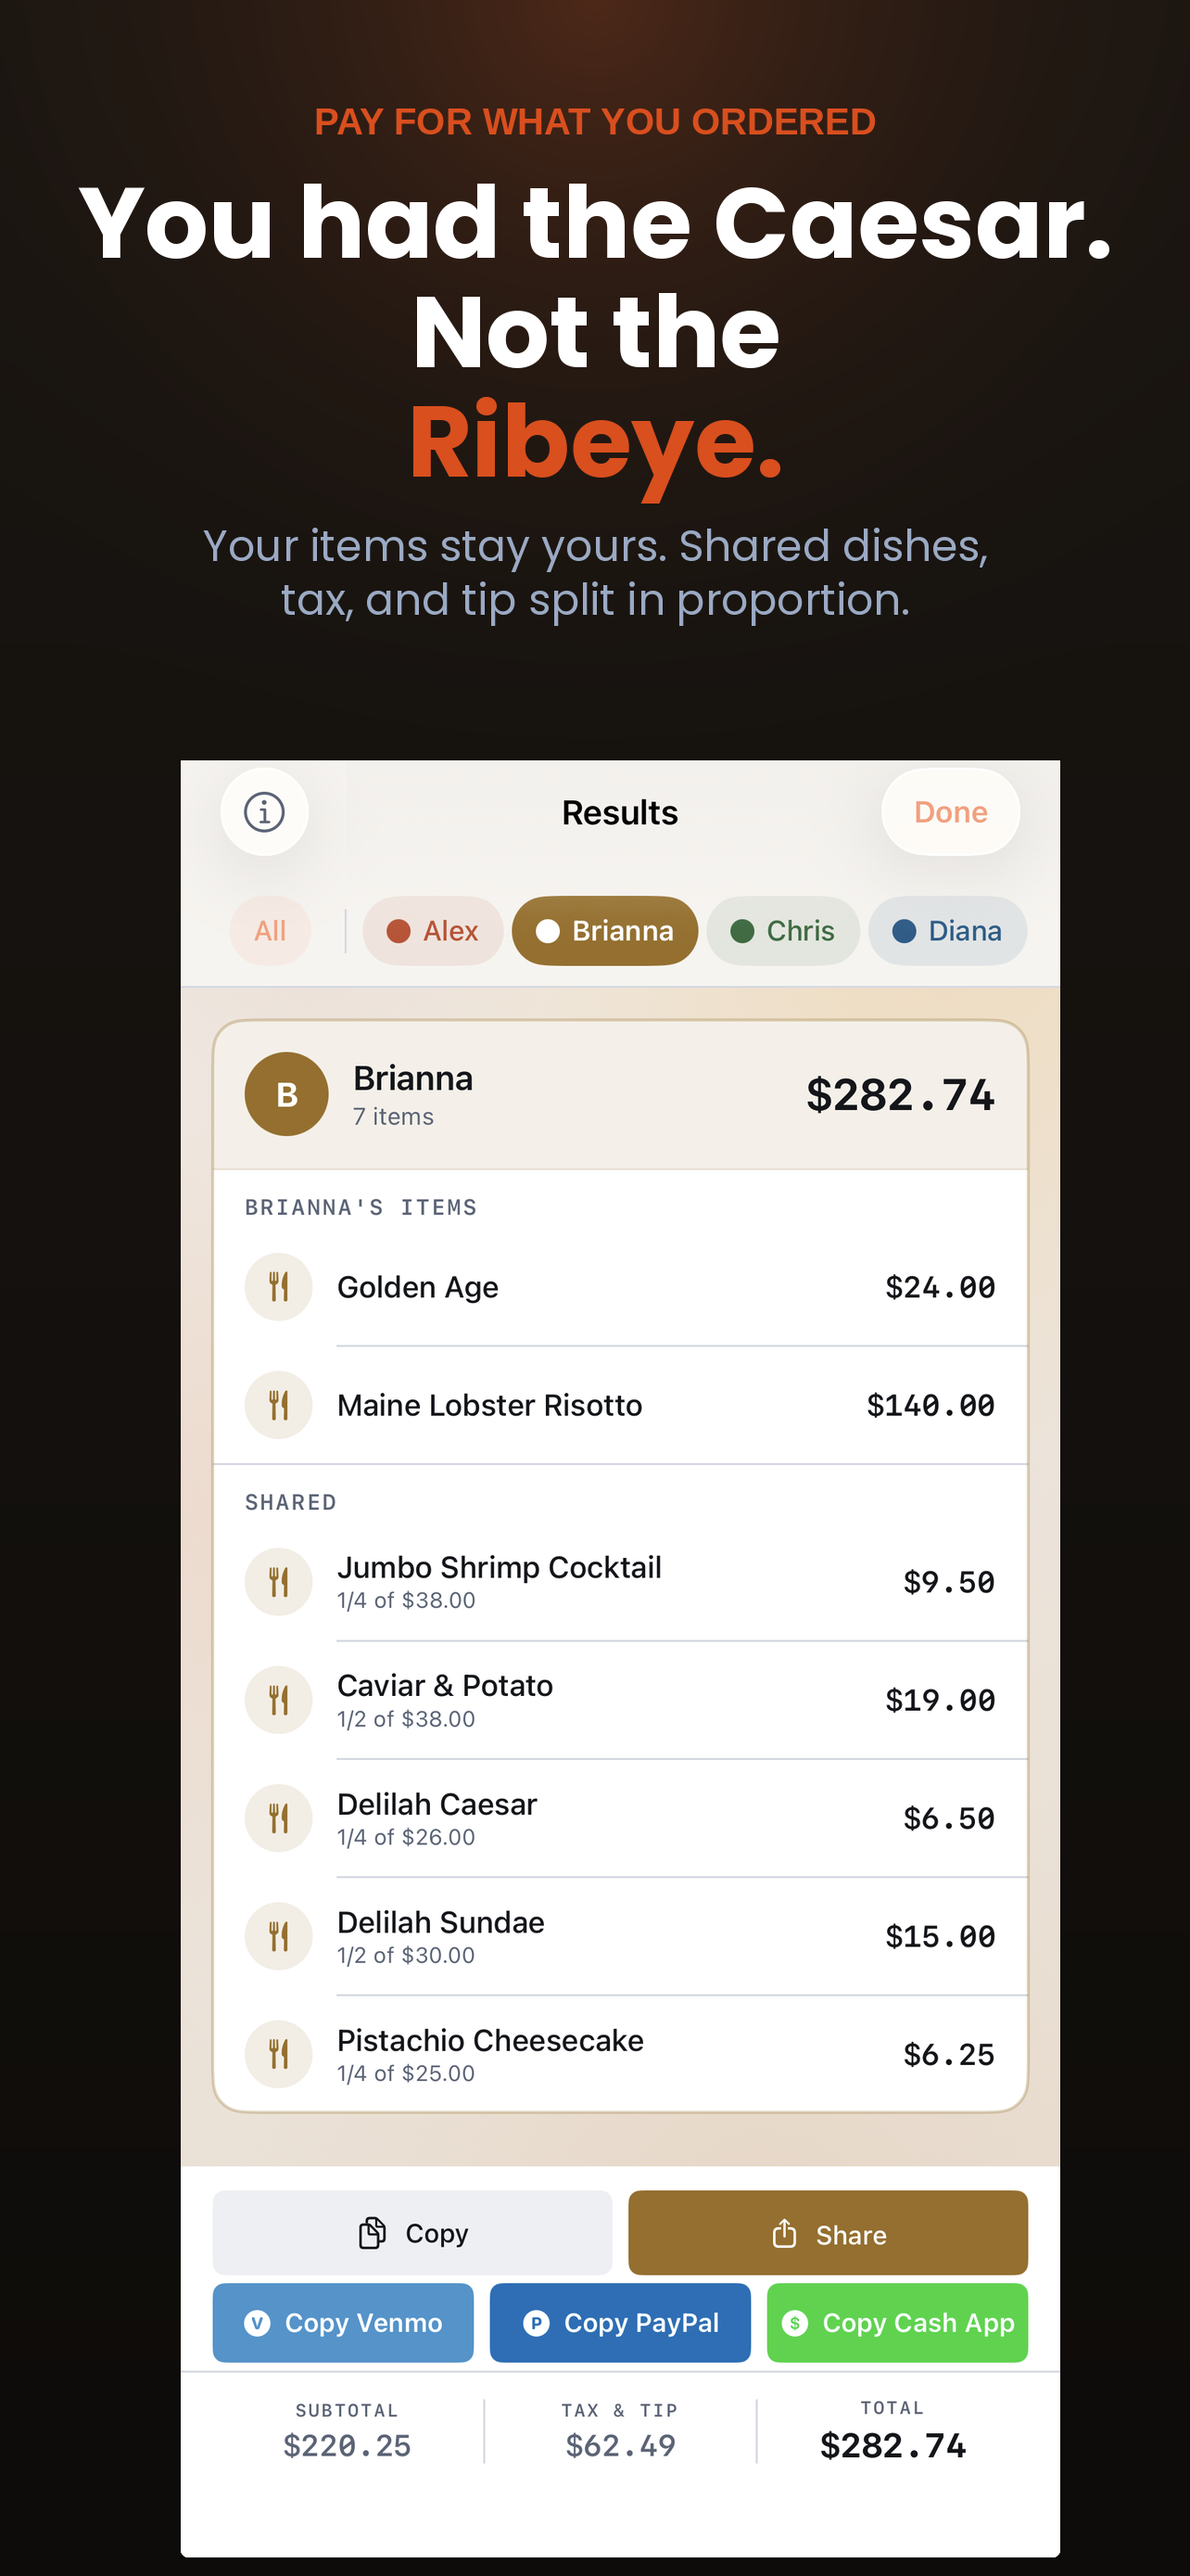
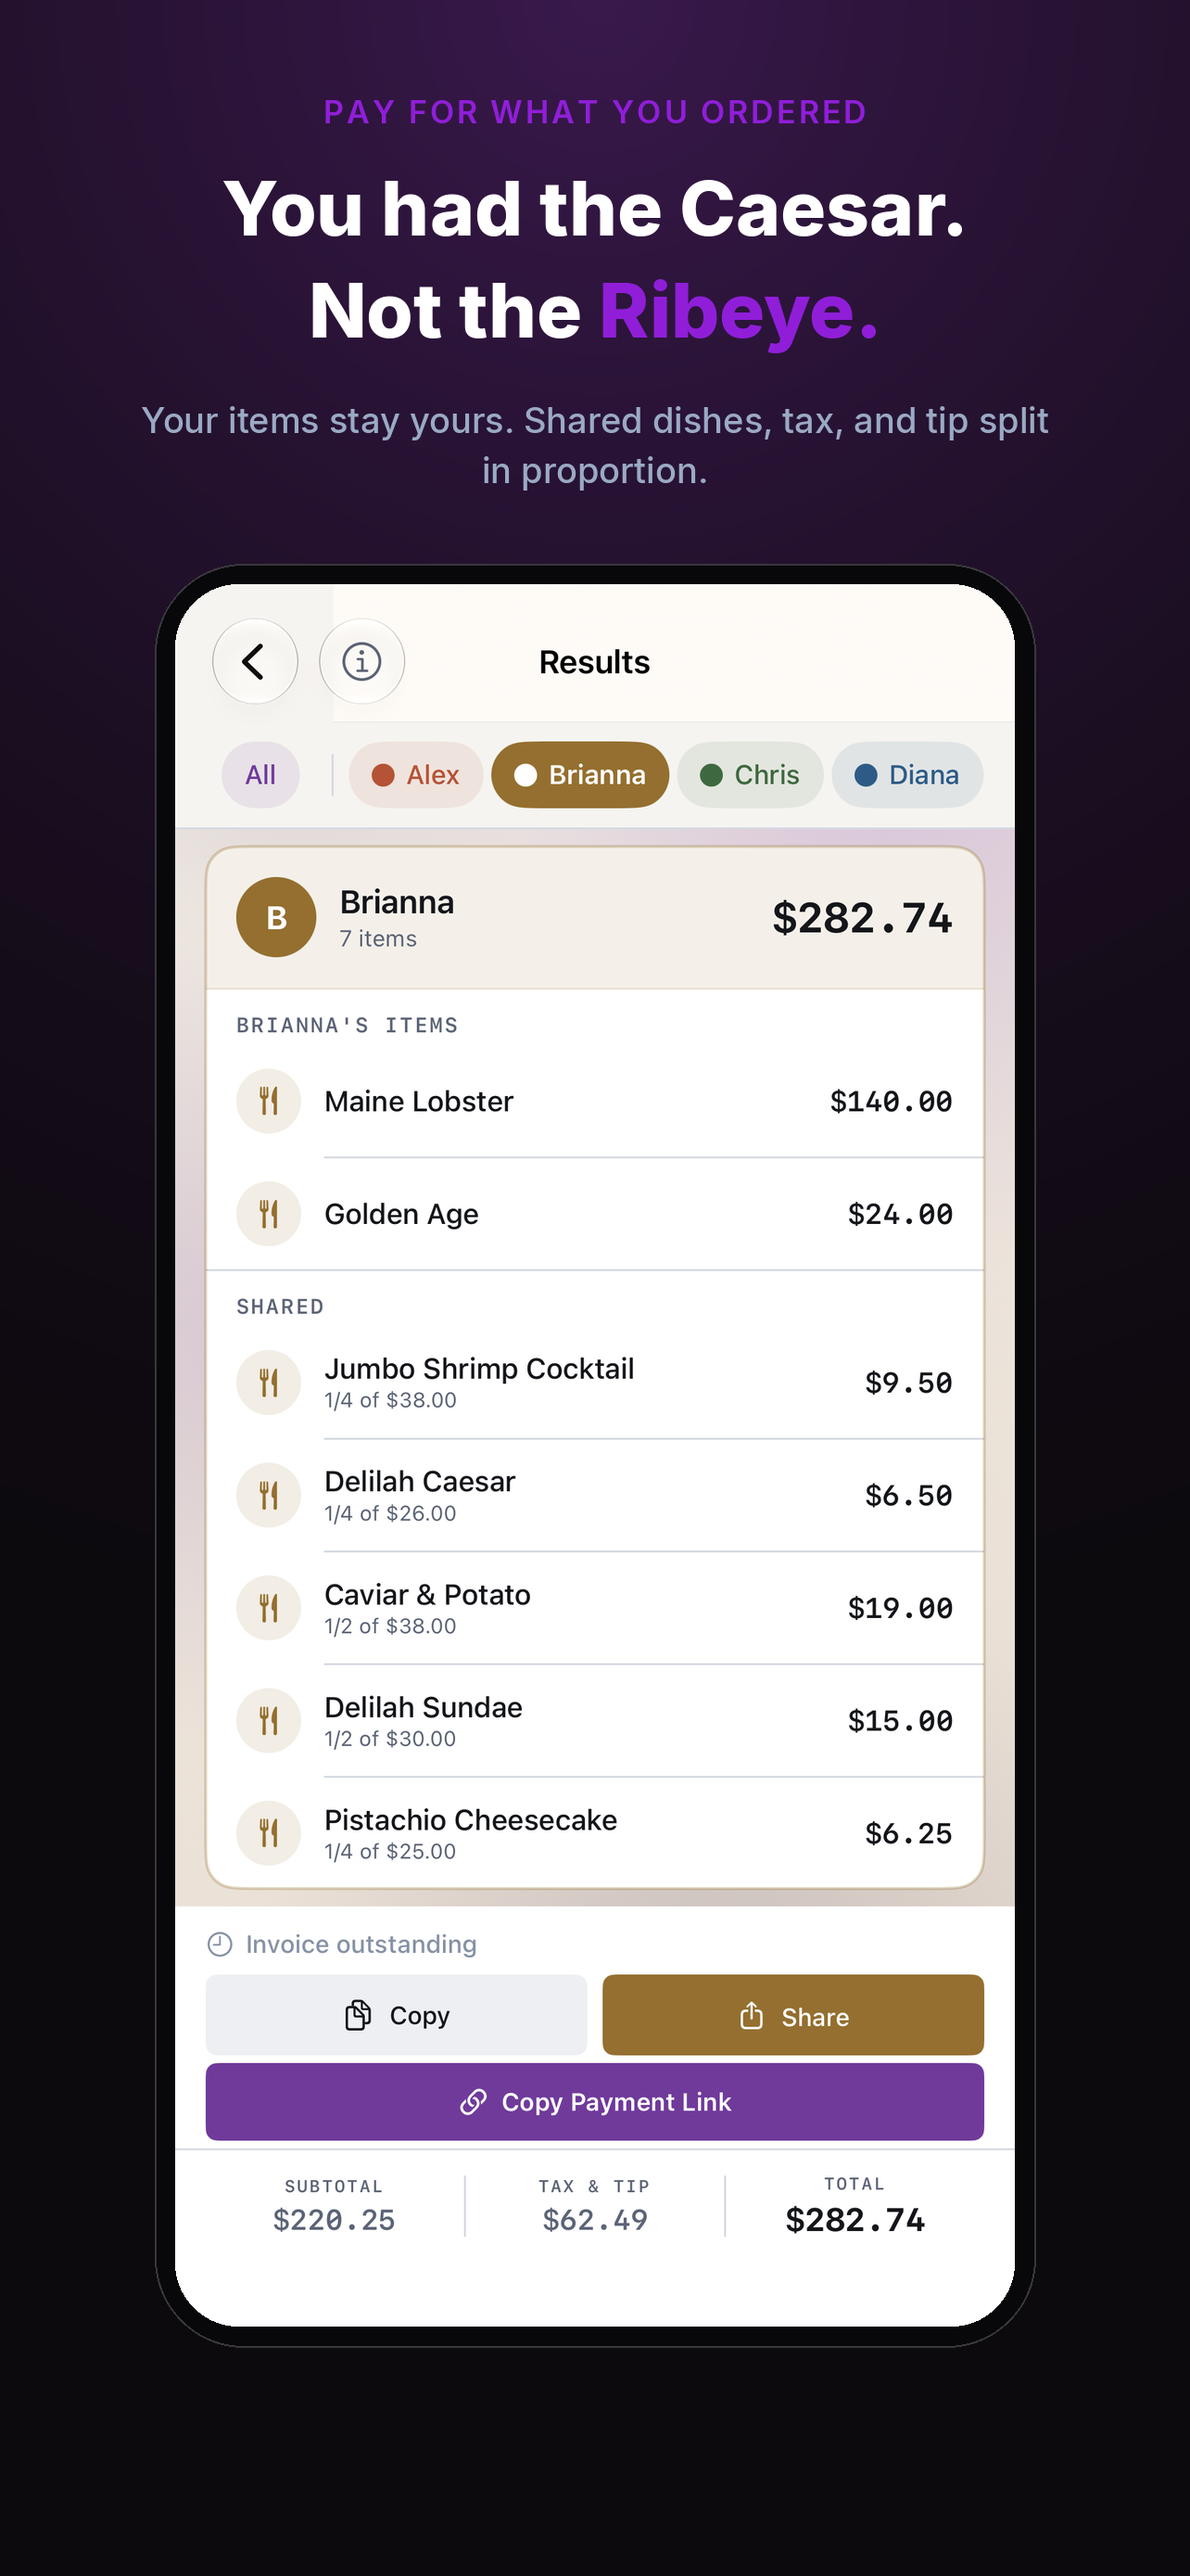
TabCut 2.0 release website update

diff --git a/tabcut/index.html b/tabcut/index.html
@@ -57,8 +57,8 @@
         * { margin: 0; padding: 0; box-sizing: border-box; }
 
         :root {
-            --accent: #FF6B35;
-            --accent-dark: #e85a24;
+            --accent: #7837A1;
+            --accent-dark: #4B1F73;
             --black: #1a1a1a;
             --gray-1: #f5f5f7;
             --gray-2: #e8e8e8;
@@ -584,6 +584,10 @@
             <span class="strip-icon">🔒</span>
             <span class="strip-text">No account or Wi-Fi needed</span>
         </div>
+        <div class="strip-item">
+            <span class="strip-icon">🌍</span>
+            <span class="strip-text">Multi-currency ready</span>
+        </div>
     </div>
 </div>
 
@@ -616,17 +620,17 @@
         <div class="step">
             <div class="step-number">1</div>
             <div class="step-title">Add the items</div>
-            <p class="step-desc">Point your camera at the receipt and TabCut reads every line item in seconds — name, price, quantity. All processing happens on your iPhone; nothing is uploaded. Prefer to type? Manual entry works too.</p>
+            <p class="step-desc">Point your camera at the receipt and TabCut reads every line item in seconds — name, price, quantity. All processing happens on your iPhone; nothing is uploaded. Prefer to type or talk? Manual entry and Voice Mode both work too.</p>
         </div>
         <div class="step">
             <div class="step-number">2</div>
             <div class="step-title">Add your group</div>
-            <p class="step-desc">Type in names or pull directly from your Contacts. Everyone at the table gets their own column from the start.</p>
+            <p class="step-desc">Type in names, pull from your Contacts, or add a saved Dining Group in one tap. Everyone at the table gets their own column from the start.</p>
         </div>
         <div class="step">
             <div class="step-number">3</div>
             <div class="step-title">Assign &amp; finalize</div>
-            <p class="step-desc">Tap to assign dishes to whoever ordered them. Split shared items across multiple people. Add tax, tip, and the venue name — then confirm and you're done.</p>
+            <p class="step-desc">Tap to assign dishes to whoever ordered them, or fill in a saved Meal Template instead of starting from scratch. Split shared items across multiple people, add tax, tip, the venue name, and currency if you're abroad — then confirm and you're done.</p>
         </div>
         <div class="step">
             <div class="step-number">4</div>
@@ -653,16 +657,16 @@
             <div class="ss-label">2 · Assign</div>
         </div>
         <div class="screenshot-card" onclick="openLightbox('screenshots/03_tabcut.png')">
-            <img src="screenshots/03_tabcut.png" alt="Review the split" class="ss-image">
-            <div class="ss-label">3 · Summary</div>
+            <img src="screenshots/03_tabcut.png" alt="Save a dining group" class="ss-image">
+            <div class="ss-label">3 · Dining Groups</div>
         </div>
         <div class="screenshot-card" onclick="openLightbox('screenshots/04_tabcut.png')">
             <img src="screenshots/04_tabcut.png" alt="See everyone's total" class="ss-image">
             <div class="ss-label">4 · Results</div>
         </div>
         <div class="screenshot-card" onclick="openLightbox('screenshots/05_tabcut.png')">
-            <img src="screenshots/05_tabcut.png" alt="Send individual invoices" class="ss-image">
-            <div class="ss-label">5 · Invoice</div>
+            <img src="screenshots/05_tabcut.png" alt="Fill in a meal template" class="ss-image">
+            <div class="ss-label">5 · Meal Templates</div>
         </div>
         <div class="screenshot-card" onclick="openLightbox('screenshots/06_tabcut.png')">
             <img src="screenshots/06_tabcut.png" alt="Group summary" class="ss-image">
@@ -675,6 +679,14 @@
         <div class="screenshot-card" onclick="openLightbox('screenshots/08_tabcut.png')">
             <img src="screenshots/08_tabcut.png" alt="Full split history" class="ss-image">
             <div class="ss-label">8 · History</div>
+        </div>
+        <div class="screenshot-card" onclick="openLightbox('screenshots/09_tabcut.png')">
+            <img src="screenshots/09_tabcut.png" alt="Add people and items by voice" class="ss-image">
+            <div class="ss-label">9 · Voice Mode</div>
+        </div>
+        <div class="screenshot-card" onclick="openLightbox('screenshots/10_tabcut.png')">
+            <img src="screenshots/10_tabcut.png" alt="Unlock TabCut Pro" class="ss-image">
+            <div class="ss-label">10 · Unlock Pro</div>
         </div>
     </div>
 </div>
@@ -691,9 +703,19 @@
             <p class="feature-desc">Type names directly or import from your Contacts. Each person gets their own running total as items are assigned — no confusion at the end.</p>
         </div>
         <div class="feature-card">
+            <div class="feature-icon">⭐</div>
+            <div class="feature-title">Dining Groups</div>
+            <p class="feature-desc">Save the people you split with most — roommates, the weekly dinner crew, a travel group — and add everyone back with a single tap next time.</p>
+        </div>
+        <div class="feature-card">
             <div class="feature-icon">📷</div>
             <div class="feature-title">On-device receipt scanning</div>
             <p class="feature-desc">Camera-powered scanning reads your receipt instantly. Works on crumpled paper, dim lighting, and long itemized bills. Prefer to type? Add items manually with the built-in keyboard entry.</p>
+        </div>
+        <div class="feature-card">
+            <div class="feature-icon">🎙</div>
+            <div class="feature-title">Voice Mode</div>
+            <p class="feature-desc">Add people and items completely hands-free — just say what you need and TabCut builds the split as you talk.</p>
         </div>
         <div class="feature-card">
             <div class="feature-icon">✂</div>
@@ -706,6 +728,11 @@
             <p class="feature-desc">Shared appetizers and bottles split evenly across however many people ordered them — one tap per person.</p>
         </div>
         <div class="feature-card">
+            <div class="feature-icon">📝</div>
+            <div class="feature-title">Meal Templates</div>
+            <p class="feature-desc">Order the same thing every time? Save a meal once as a template, then fill in a new split with a single tap.</p>
+        </div>
+        <div class="feature-card">
             <div class="feature-icon">💸</div>
             <div class="feature-title">Share &amp; collect payment</div>
             <p class="feature-desc">Send each person's total by text or email, or tap to open a payment request in Venmo, PayPal, or Cash App with the amount pre-filled.</p>
@@ -714,6 +741,11 @@
             <div class="feature-icon">📋</div>
             <div class="feature-title">Track who's paid</div>
             <p class="feature-desc">Mark each person as paid and track outstanding balances. Mark all at once when the table settles up together.</p>
+        </div>
+        <div class="feature-card">
+            <div class="feature-icon">🌍</div>
+            <div class="feature-title">Multi-currency support</div>
+            <p class="feature-desc">Splitting a bill abroad? Set the currency for any split so every total reads correctly, no matter where the table is.</p>
         </div>
         <div class="feature-card">
             <div class="feature-icon">🕐</div>
